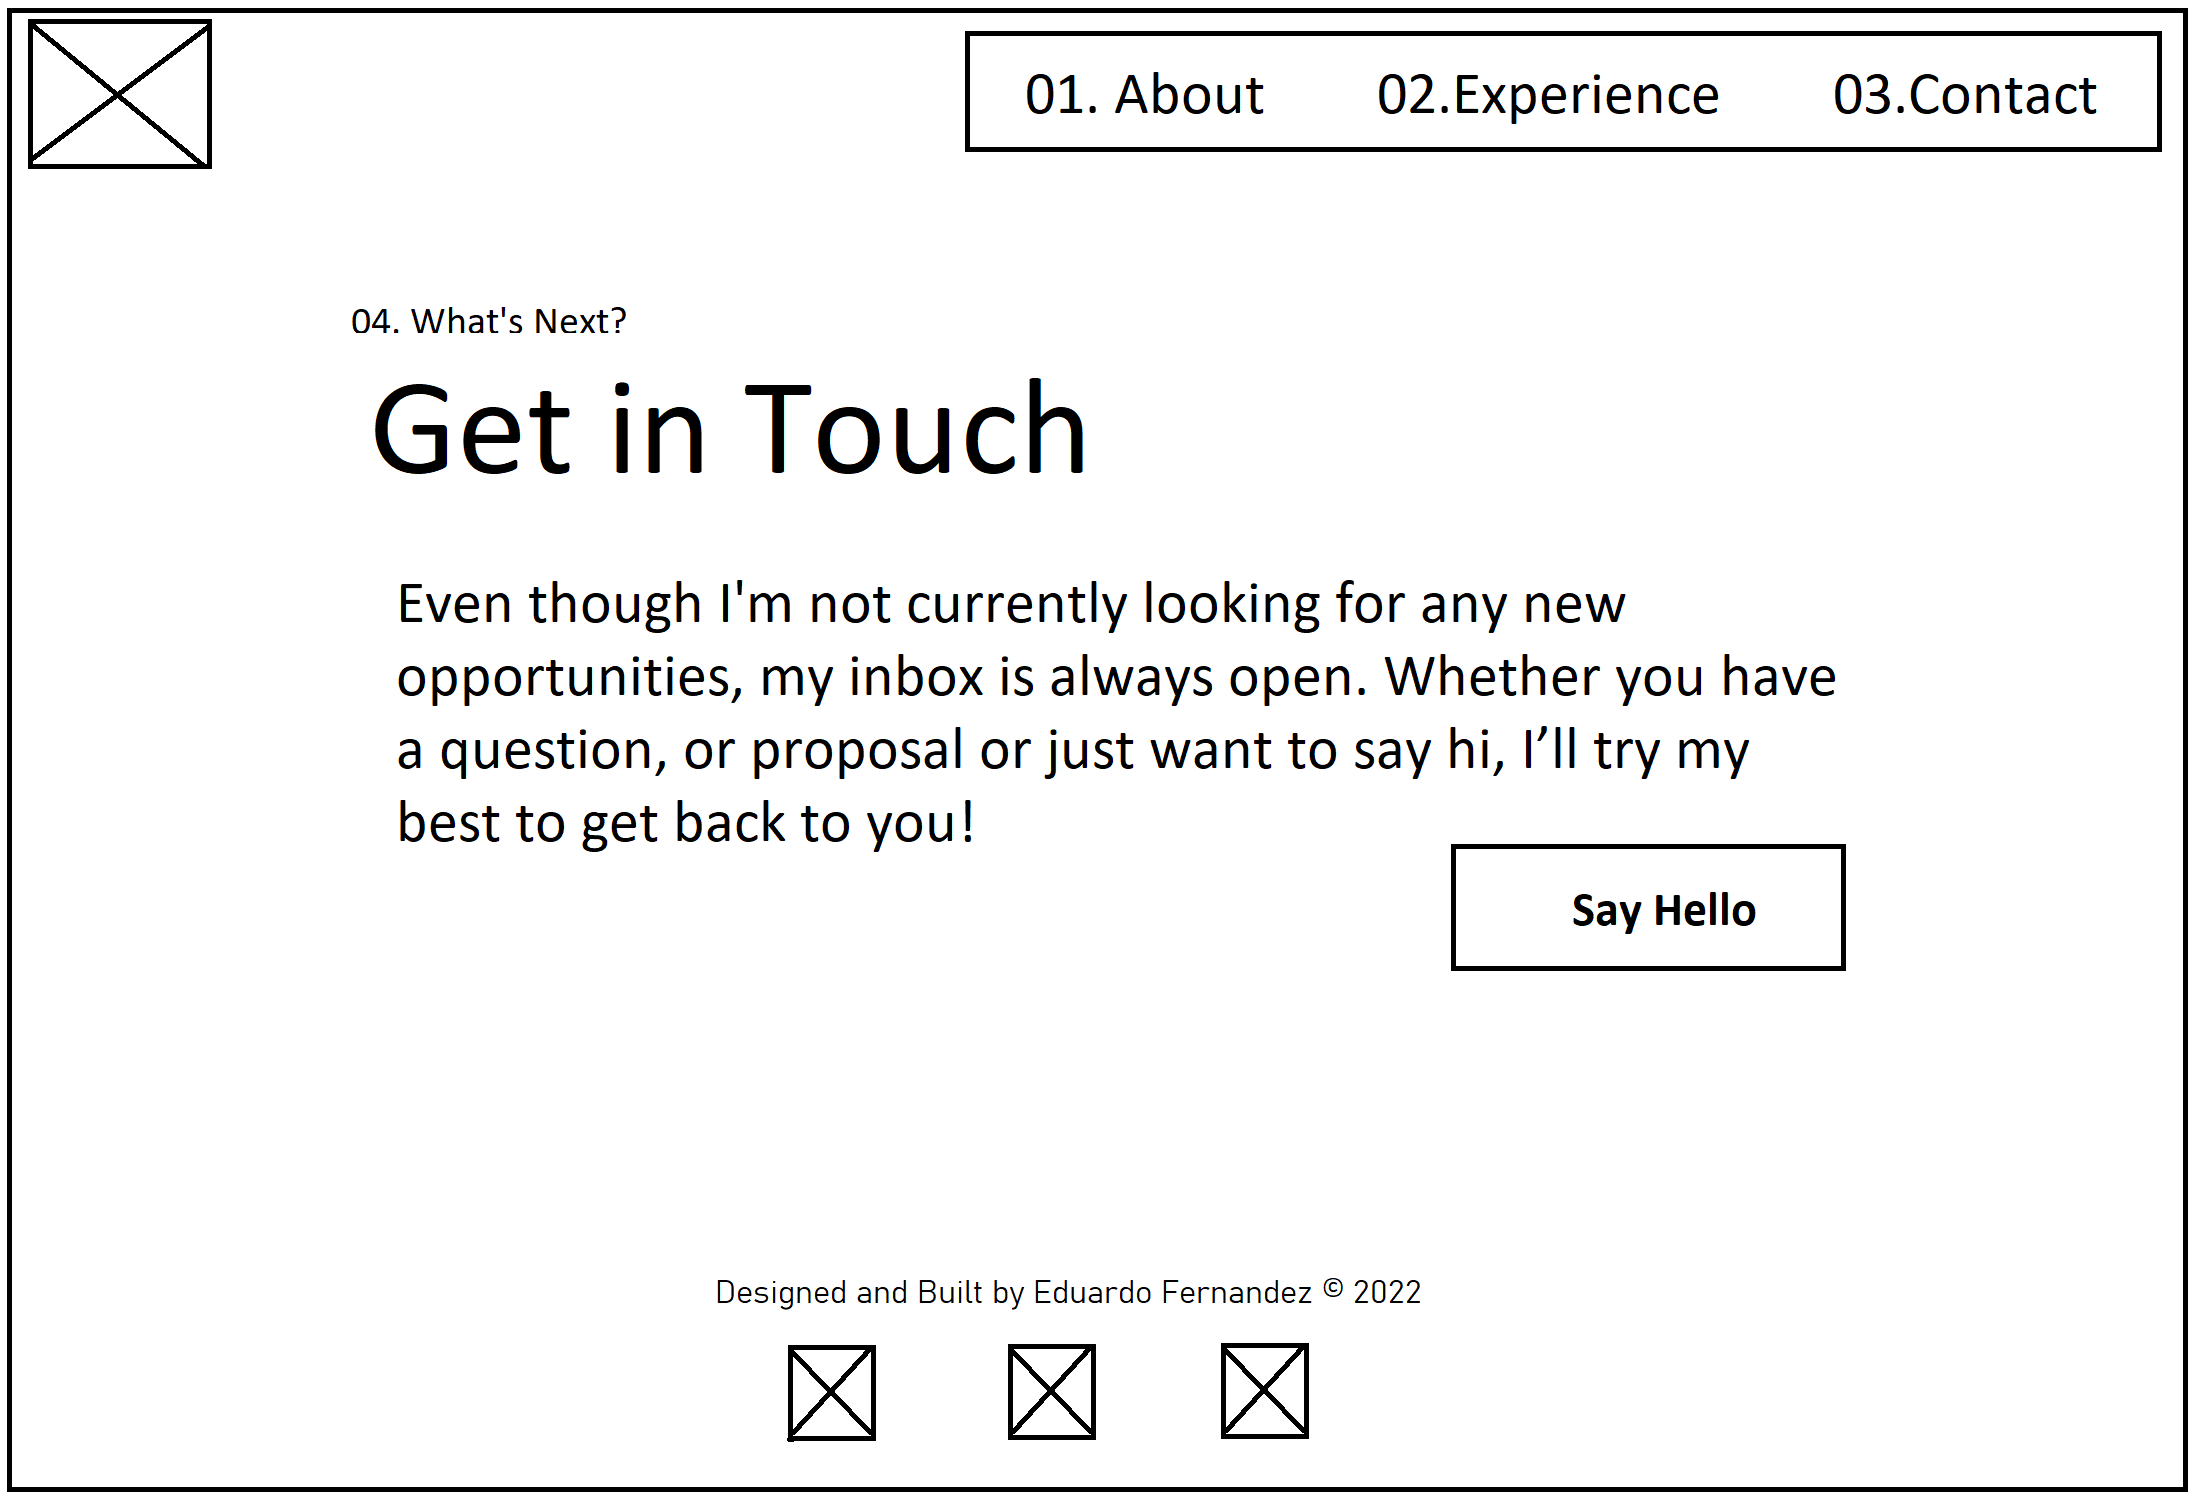
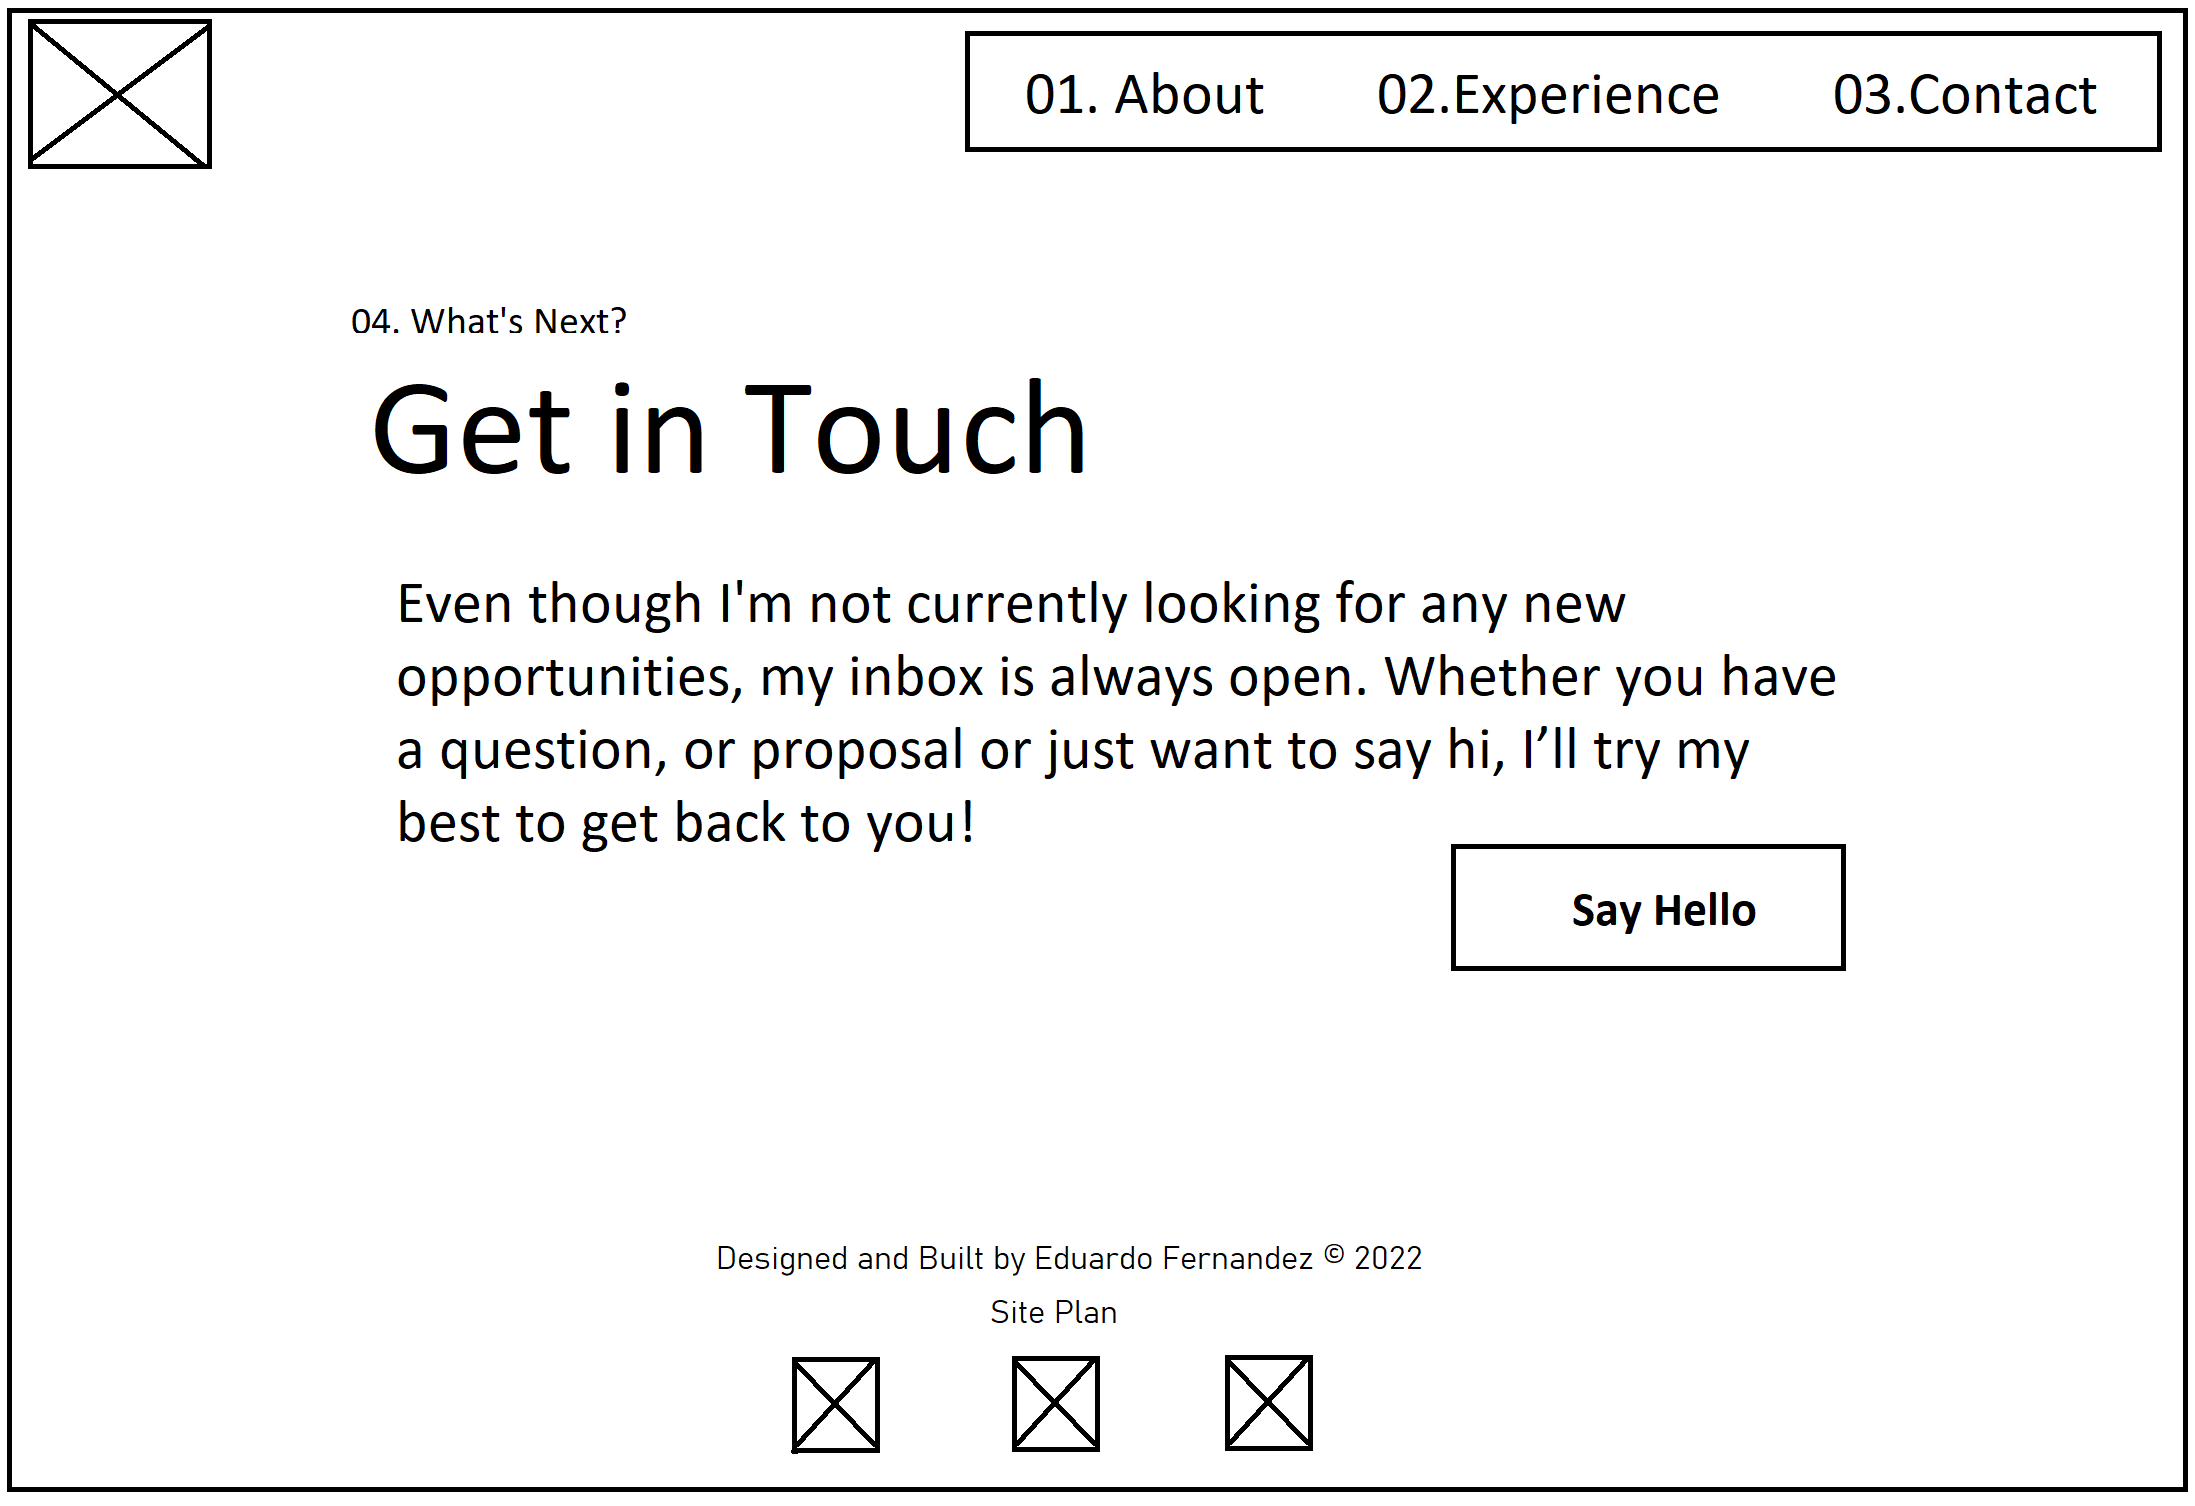
siteplan update

Changed region(s): [[0.3408, 0.8114, 0.6506, 0.9675]]

diff --git a/personal-site/experience.html b/personal-site/experience.html
@@ -139,18 +139,21 @@
         </main>
 
         <footer>
-                <p id="footer1">
-                    Designed and Built by <a>Eduardo Fernandez</a> © <a> 2022 </a>
-                </p>
-                <a class="social" id="li" href="https://www.linkedin.com/in/eduardo-fernandezv/" target="_blank">
-                    <img class="sociallogo" src="images/linkedin.png"  alt="LinkedIn">
-                </a>
-                <a class="social" id="ig" href="https://www.instagram.com/le_eduardof/" target="_blank">
-                    <img class="sociallogo" src="images/instagram.png" alt="Instagram">
-                </a>
-                <a class="social" id="gh" href="https://github.com/emfernandezv" target="_blank">
-                    <img class="sociallogo" src="images/github.png" alt="Git Hub">
-                </a>
-        </footer>
+            <p id="footer1">
+                Designed and Built by Eduardo Fernandez © 2022 
+            </p>
+            <p id="footer2">
+                <a href="site-plan.html"> Site Plan </a>
+            </p>
+            <a class="social" id="li" href="https://www.linkedin.com/in/eduardo-fernandezv/" target="_blank">
+                <img class="sociallogo" src="images/linkedin.png"  alt="LinkedIn">
+            </a>
+            <a class="social" id="ig" href="https://www.instagram.com/le_eduardof/" target="_blank">
+                <img class="sociallogo" src="images/instagram.png" alt="Instagram">
+            </a>
+            <a class="social" id="gh" href="https://github.com/emfernandezv" target="_blank">
+                <img class="sociallogo" src="images/github.png" alt="Git Hub">
+            </a>
+    </footer>
     </body>
 </html>

diff --git a/personal-site/about-me.html b/personal-site/about-me.html
@@ -48,18 +48,21 @@
     </main>
 
     <footer>
-            <p id="footer1">
-                Designed and Built by <a>Eduardo Fernandez</a> © <a> 2022 </a>
-            </p>
-            <a class="social" id="li" href="https://www.linkedin.com/in/eduardo-fernandezv/" target="_blank">
-                <img class="sociallogo" src="images/linkedin.png"  alt="LinkedIn">
-            </a>
-            <a class="social" id="ig" href="https://www.instagram.com/le_eduardof/" target="_blank">
-                <img class="sociallogo" src="images/instagram.png" alt="Instagram">
-            </a>
-            <a class="social" id="gh" href="https://github.com/emfernandezv" target="_blank">
-                <img class="sociallogo" src="images/github.png" alt="Git Hub">
-            </a>
-    </footer>
+        <p id="footer1">
+            Designed and Built by Eduardo Fernandez © 2022 
+        </p>
+        <p id="footer2">
+            <a href="site-plan.html"> Site Plan </a>
+        </p>
+        <a class="social" id="li" href="https://www.linkedin.com/in/eduardo-fernandezv/" target="_blank">
+            <img class="sociallogo" src="images/linkedin.png"  alt="LinkedIn">
+        </a>
+        <a class="social" id="ig" href="https://www.instagram.com/le_eduardof/" target="_blank">
+            <img class="sociallogo" src="images/instagram.png" alt="Instagram">
+        </a>
+        <a class="social" id="gh" href="https://github.com/emfernandezv" target="_blank">
+            <img class="sociallogo" src="images/github.png" alt="Git Hub">
+        </a>
+</footer>
 </body>
 </html>

diff --git a/personal-site/index.html b/personal-site/index.html
@@ -34,7 +34,10 @@
 
     <footer>
         <p id="footer1">
-            Designed and Built by <a>Eduardo Fernandez</a> © <a> 2022 </a>
+            Designed and Built by Eduardo Fernandez © 2022 
+        </p>
+        <p id="footer2">
+            <a href="site-plan.html"> Site Plan </a>
         </p>
         <a class="social" id="li" href="https://www.linkedin.com/in/eduardo-fernandezv/" target="_blank">
             <img class="sociallogo" src="images/linkedin.png"  alt="LinkedIn">
@@ -45,6 +48,6 @@
         <a class="social" id="gh" href="https://github.com/emfernandezv" target="_blank">
             <img class="sociallogo" src="images/github.png" alt="Git Hub">
         </a>
-    </footer>
+</footer>
 </body>
 </html>

diff --git a/personal-site/contact-me.html b/personal-site/contact-me.html
@@ -29,7 +29,10 @@
     </main>
     <footer>
             <p id="footer1">
-                Designed and Built by <a>Eduardo Fernandez</a> © <a> 2022 </a>
+                Designed and Built by Eduardo Fernandez © 2022 
+            </p>
+            <p id="footer2">
+                <a href="site-plan.html"> Site Plan </a>
             </p>
             <a class="social" id="li" href="https://www.linkedin.com/in/eduardo-fernandezv/" target="_blank">
                 <img class="sociallogo" src="images/linkedin.png"  alt="LinkedIn">

diff --git a/personal-site/styles/style-recursive.css b/personal-site/styles/style-recursive.css
@@ -133,8 +133,13 @@ footer a{
 }
 
 #footer1 {
+    margin-top: 0%;
+    padding-bottom: 0;
+}
+
+#footer2 {
     margin: 0%;    
-    padding-bottom: 1vw;
+    padding-bottom: 0.5vw;
 }
 
 #footer1  span{
